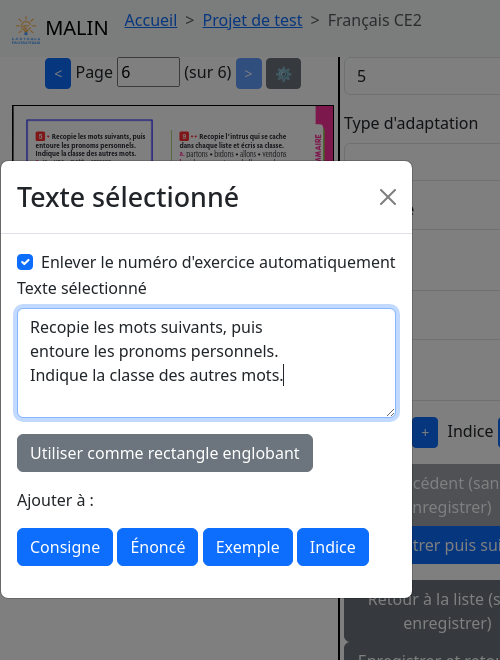
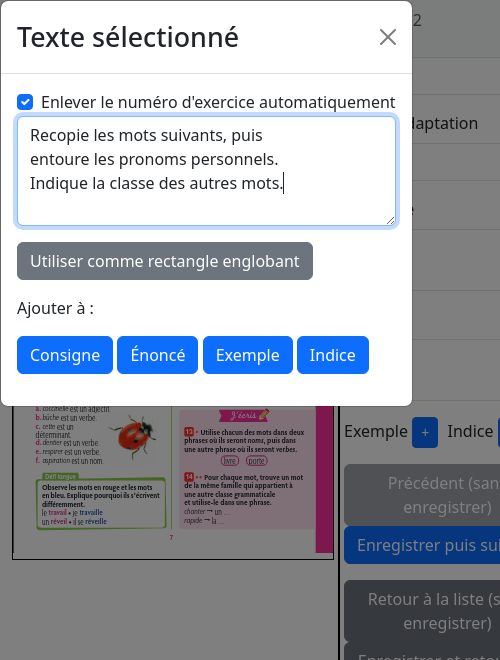
Keep "Selected text" dialog fully on screen

diff --git a/tests/gabby/project-textbook-page-view.cy.js b/tests/gabby/project-textbook-page-view.cy.js
@@ -227,14 +227,14 @@ describe('Gabby\'s project\'s textbook page view', () => {
     cy.get('@canvas').trigger('pointerdown', 15 * xRatio, 375 * yRatio, { pointerId: 1 })
     cy.get('@canvas').trigger('pointermove', 150 * xRatio, 393 * yRatio)
     cy.get('@canvas').trigger('pointerup', 150 * xRatio, 393 * yRatio, { pointerId: 1 })
-    cy.get('label:contains("Selected text")').next().should('have.value', 'Classe les mots en trois groupes :\nnom, verbe, adjectif.')
+    cy.get('textarea').first().should('have.value', 'Classe les mots en trois groupes :\nnom, verbe, adjectif.')
     cy.get('button:contains("Instructions")').click()
     cy.get('@canvas').trigger('pointermove', 5 * xRatio, 5 * yRatio)
     cy.get('@canvas').trigger('pointerdown', 15 * xRatio, 390 * yRatio, { pointerId: 1 })
     cy.get('@canvas').trigger('pointermove', 150 * xRatio, 415 * yRatio)
     cy.get('@canvas').trigger('pointerup', 150 * xRatio, 415 * yRatio, { pointerId: 1 })
-    cy.get('label:contains("Selected text")').next().should('have.value', 'verrou ◆ baigner ◆ joli ◆ chaleur ◆ grosse ◆\nsurveiller ◆ degré ◆ librairie ◆ repas ◆ parler')
-    cy.get('label:contains("Selected text")').next().type('Blah blah blah')
+    cy.get('textarea').first().should('have.value', 'verrou ◆ baigner ◆ joli ◆ chaleur ◆ grosse ◆\nsurveiller ◆ degré ◆ librairie ◆ repas ◆ parler')
+    cy.get('textarea').first().type('Blah blah blah')
     cy.get('button:contains("Wording")').click()
     cy.get('button:contains("Save then next")').click()
     cy.get('div.busy').should('not.exist')
@@ -875,6 +875,7 @@ describe('Gabby\'s project\'s textbook page view', () => {
 
     cy.get('li:contains("3 Complète avec : le, une, …") a:contains("Edit")').click()
     cy.get('label:contains("Instructions")').next().clear().type('Ceci est la consigne')
+    cy.get('label:contains("Instructions")').next().should('have.value', 'Ceci est la consigne')
     cy.get('button:contains("Save then back to list")').click()
     cy.get('div.busy').should('not.exist')
 
@@ -884,7 +885,7 @@ describe('Gabby\'s project\'s textbook page view', () => {
     cy.get('@canvas').trigger('pointerdown', 150 * xRatio, 372 * yRatio, { pointerId: 1 })
     cy.get('@canvas').trigger('pointermove', 300 * xRatio, 397 * yRatio)
     cy.get('@canvas').trigger('pointerup', 300 * xRatio, 397 * yRatio, { pointerId: 1 })
-    cy.get('label:contains("Selected text")').next().should('have.value', 'pronom personnel / verbe / déterminant / nom\ncommun : Je mange une pomme.')
+    cy.get('textarea').first().should('have.value', 'pronom personnel / verbe / déterminant / nom\ncommun : Je mange une pomme.')
     cy.get('button:contains("Example")').click()
     cy.get('button:contains("Save then back to list")').click()
     cy.get('div.busy').should('not.exist')

diff --git a/frontend/src/frontend/components/FloatingModal.vue b/frontend/src/frontend/components/FloatingModal.vue
@@ -1,8 +1,10 @@
 <script setup lang="ts">
-import { ref, onMounted, onBeforeUnmount } from 'vue'
-import { useFloating, shift, flip, type VirtualElement } from '@floating-ui/vue'
+import { ref, computed } from 'vue'
+import { onMounted, onBeforeUnmount } from 'vue'
+import { useFloating, shift } from '@floating-ui/vue'
 // @ts-ignore/* @todo Use @types/bootstrap */
 import bootstrap from 'bootstrap/dist/js/bootstrap.bundle.min.js'
+// import { useMouse } from '@vueuse/core';
 
 
 const props = defineProps<{
@@ -15,11 +17,31 @@ const emit = defineEmits<{
   hidden: []
 }>()
 
+// const mouse = useMouse()
+
 const modalElement = ref<HTMLDivElement | null>(null)
 let modal: any/* @todo @types/bootstrap */ = null
 const dialog = ref(null)
-const floatingReference = ref<VirtualElement | null>(null)
-const {floatingStyles} = useFloating(floatingReference, dialog, { placement: 'top', middleware: [flip(), shift()] })
+const shown = ref(false)
+const floatingReference = computed(() => {
+  if (shown.value) {
+    let {x, y} = props.reference
+
+    // if (mouse.sourceType.value !== null) {
+    //   x = mouse.x.value
+    //   y = mouse.y.value
+    // }
+
+    return {
+      getBoundingClientRect() {
+        return {width: 0, height: 0, x, left: x, right: x, y, top: y, bottom: y}
+      }
+    }
+  } else {
+    return null
+  }
+})
+const {floatingStyles} = useFloating(floatingReference, dialog, { placement: 'top', middleware: [shift({crossAxis: true})] })
 
 onMounted(() => {
   console.assert(modalElement.value !== null)
@@ -27,16 +49,7 @@ onMounted(() => {
   modalElement.value.addEventListener('shown.bs.modal', () => emit('shown'))
   modalElement.value.addEventListener('hidden.bs.modal', () => emit('hidden'))
   modal.show()
-  floatingReference.value = {
-    getBoundingClientRect() {
-      const { x, y } = props.reference
-      return {
-        width: 0, height: 0,
-        x: x, left: x, right: x,
-        y: y, top: y, bottom: y,
-      }
-    }
-  }
+  shown.value = true
 })
 
 onBeforeUnmount(() => {

diff --git a/tests/gabby/project-textbook-page-exercise-view.cy.js b/tests/gabby/project-textbook-page-exercise-view.cy.js
@@ -160,7 +160,7 @@ describe('Gabby\'s project\'s textbook page exercise view', () => {
     cy.get('@canvas').trigger('pointerdown', 165, 175, { pointerId: 1 })
     cy.get('@canvas').trigger('pointermove', 300, 202)
     cy.get('@canvas').trigger('pointerup', 300, 202, { pointerId: 1 })
-    cy.get('label:contains("Selected text")').next().should('have.value', 'nager ➞ … ◆ tracter ➞ … ◆ manger ➞ … ◆\ninventer ➞ … ◆ livrer ➞ …')
+    cy.get('textarea').first().should('have.value', 'nager ➞ … ◆ tracter ➞ … ◆ manger ➞ … ◆\ninventer ➞ … ◆ livrer ➞ …')
     cy.get('button:contains("Wording")').click()
 
     cy.get('label:contains("Wording")').next().should('have.value', 'blah blah\nnager ➞ … ◆ tracter ➞ … ◆ manger ➞ … ◆\ninventer ➞ … ◆ livrer ➞ …')

diff --git a/frontend/src/frontend/components/opinion/bootstrap/LabeledTextarea.vue b/frontend/src/frontend/components/opinion/bootstrap/LabeledTextarea.vue
@@ -7,9 +7,12 @@ defineOptions({
   inheritAttrs: false
 })
 
-defineProps<{
-  label: string,
-}>()
+withDefaults(defineProps<{
+  label?: string
+  maxRows?: number
+}>(), {
+  maxRows: Infinity,
+})
 
 const model = defineModel<string>({default: ''})
 
@@ -26,7 +29,7 @@ defineExpose({
 
 <template>
   <div class="mb-3">
-    <label class="form-label" :for="id">{{ label }}</label>
-    <textarea class="form-control" :id="id" ref="textarea" v-model="model" v-bind="$attrs" :rows="model.split('\n').length + 1"></textarea>
+    <label v-if="label !== undefined" class="form-label" :for="id">{{ label }}</label>
+    <textarea class="form-control" :id="id" ref="textarea" v-model="model" v-bind="$attrs" :rows="Math.min(model.split('\n').length + 1, maxRows)"></textarea>
   </div>
 </template>

diff --git a/frontend/src/frontend/components/ExerciseFormTextSelectionMenu.vue b/frontend/src/frontend/components/ExerciseFormTextSelectionMenu.vue
@@ -38,7 +38,7 @@ watch(
     :reference
   >
     <BLabeledCheckbox :label="$t('doStripExerciceNumber')" v-model="doStripExerciceNumber" :disabled="!canStripExerciceNumber" />
-    <BLabeledTextarea ref="selectedText" :label="$t('selectedText')" v-model="textToAdd" @change="emit('extractionEvent', {kind: 'SelectedTextEdited', value: textToAdd})" />
+    <BLabeledTextarea ref="selectedText" :maxRows="15" v-model="textToAdd" @change="emit('extractionEvent', {kind: 'SelectedTextEdited', value: textToAdd})" />
 
     <slot :textToAdd :hide="() => { show = false }"></slot>
   </FloatingModal>
